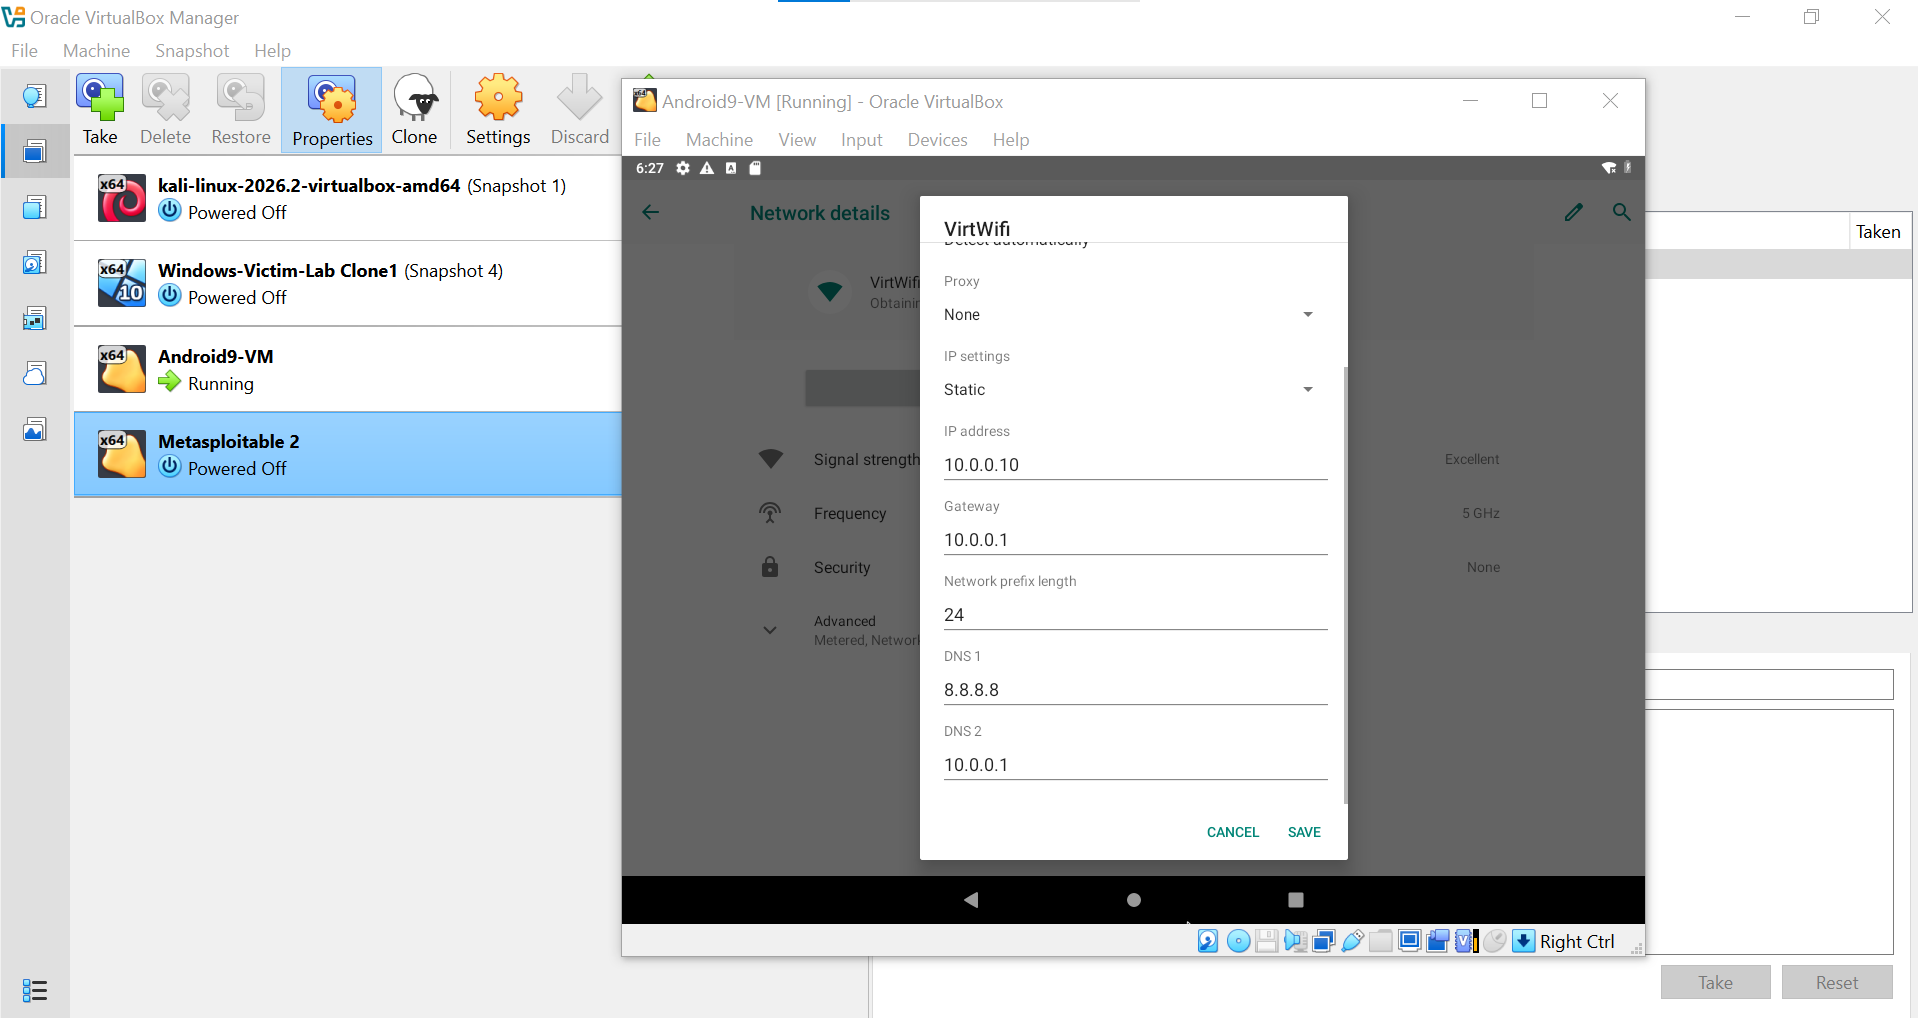
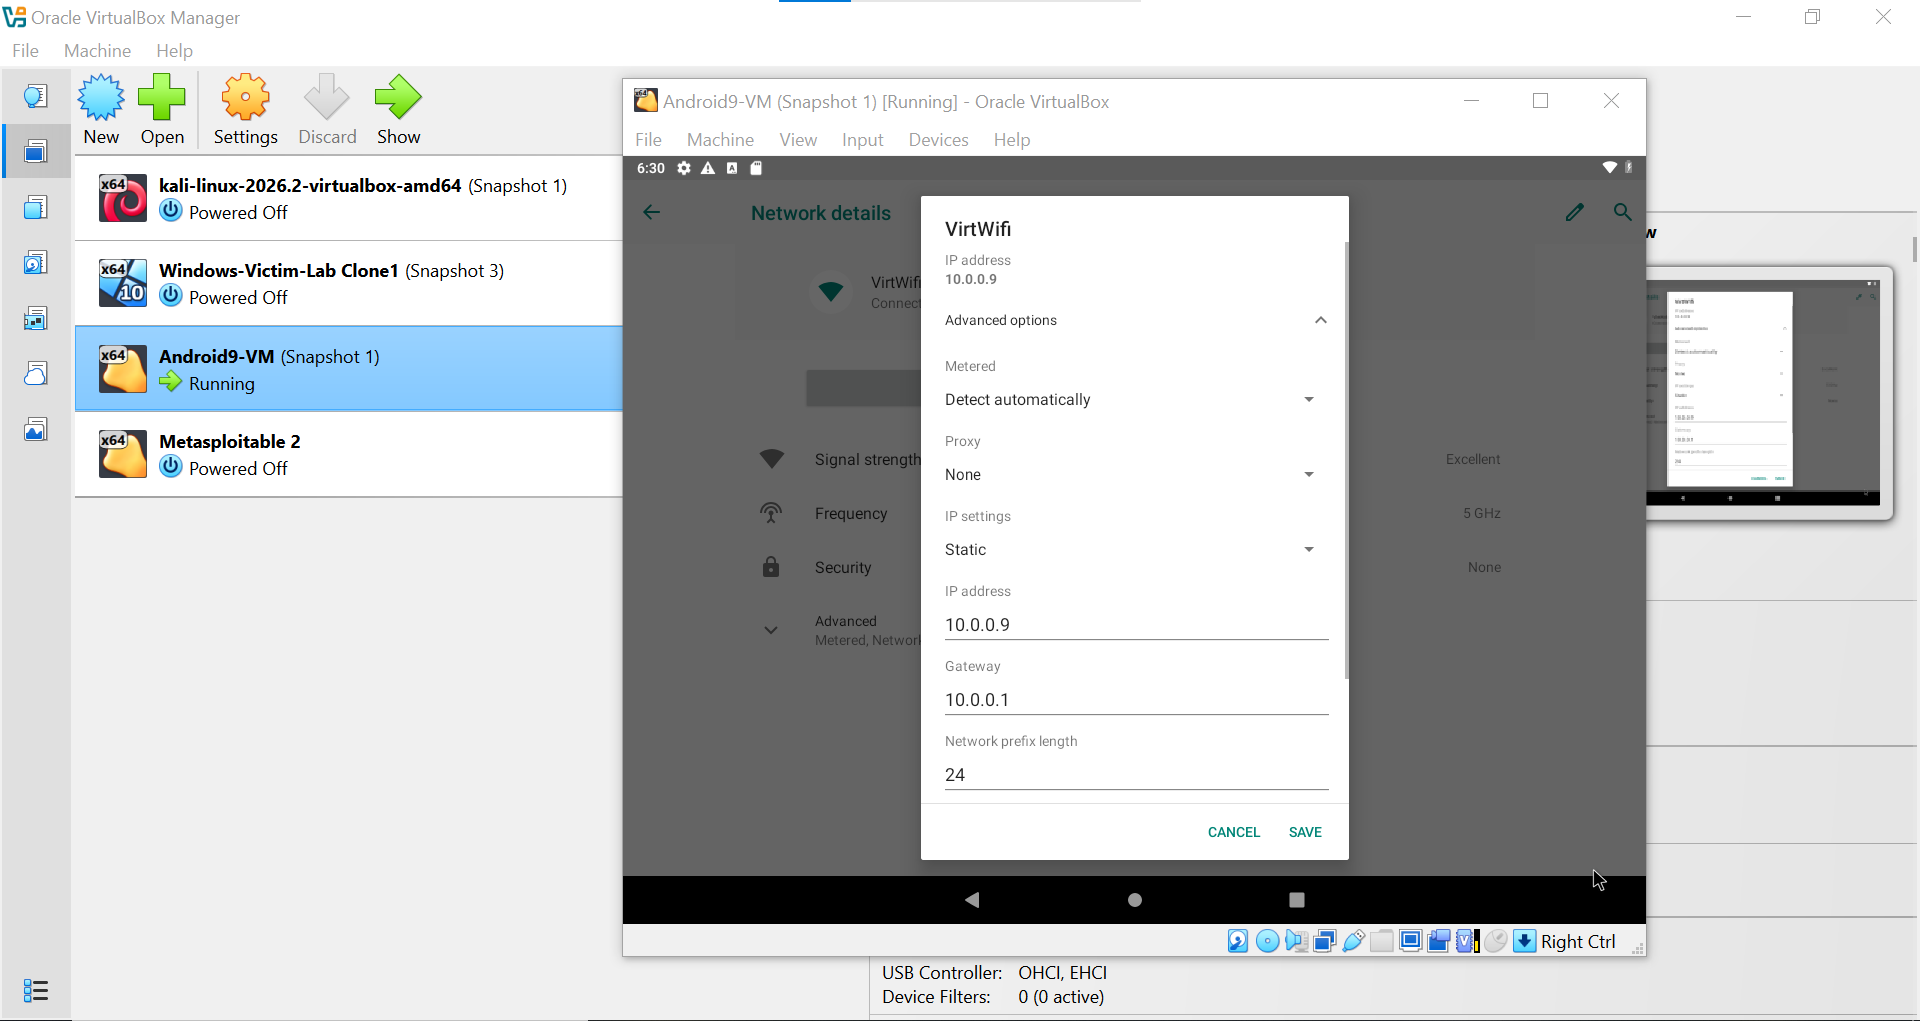
Added Phase 1 & 2 Reconnaissance and Network Scanning report (Batch B084)

diff --git a/reconnaissance-report/README.md b/reconnaissance-report/README.md
@@ -1,0 +1,142 @@
+# 🔍 Footprinting, Reconnaissance, and Network Scanning Report
+
+| Assessment Metadata | Details |
+| :--- | :--- |
+| **Reference No.** | `NW-LOA-B082-017` |
+| **Submission Date** | 13 November 2026 |
+| **Prepared By** | Siphiwe Toise |
+| **Program / Batch** | Batch B084 — Networkwalks Cybersecurity Internship |
+| **Client / Target Owner** | Networkwalks (Authorized by Sonia John, Managing Director) |
+
+---
+
+## 📑 Table of Contents
+*   **01.** Executive Summary & Scope Compliance
+*   **02.** Authorization & Rules of Engagement
+*   **03.** Lab & Attacker Environment Setup
+*   **04.** Phase 1: Passive & Light Reconnaissance (`networkwalks.com`)
+*   **05.** Phase 2: Local Subnet Host Discovery (`10.0.0.0/24`)
+*   **06.** Risk & Security Posture Assessment
+*   **07.** Evidence & Verification Screenshots
+*   **08.** Conclusion & Recommendations
+
+---
+
+## 01. Executive Summary & Scope Compliance
+This report documents the findings of a limited, non-destructive security assessment covering **Phase 1 (Footprinting and Reconnaissance)** and **Phase 2 (Network Scanning and Host Discovery)**. All testing activities were performed strictly within the written boundaries established by Networkwalks under Reference Number **NW-LOA-B082-017**.
+
+External enumeration of `networkwalks.com` revealed a well-hardened web front end protected by HTTPS redirection and a **ModSecurity Web Application Firewall (WAF)**. However, DNS queries disclosed exact name server software versions and an unsigned DNSSEC configuration. Internal network scanning of the isolated local subnet (`10.0.0.0/24`) successfully identified two active nodes with zero disruption to live services.
+
+---
+
+## 02. Authorization & Rules of Engagement
+In accordance with the **Letter of Authorization for Cybersecurity Testing** issued by Networkwalks, all activities adhered strictly to the approved scope and conditions:
+
+*   **Authorized Targets:** `networkwalks.com` (public website and associated DNS records) and the tester's own controlled Local Area Network (`10.0.0.0/24`).
+*   **Permitted Tools & Methods:** Passive and light information gathering (`whois`, `whatweb`, `nslookup`, `curl`, `wafw00f`, `dnsrecon`) alongside local subnet discovery via `Zenmap` / `Nmap`.
+*   **Prohibited Activities Respected:** Zero exploitation, brute-force attempts, privilege escalation, denial-of-service, or unauthorized data modification were performed. All discovered artifacts are maintained strictly confidential for internship evaluation.
+
+---
+
+## 03. Lab & Attacker Environment Setup
+Before initiating network sweeps, the local network interface (`eth0`) on the Kali Linux testing workstation was verified using `ifconfig` and `ip a` to confirm strict containment within the authorized private subnet.
+
+*   **Attacker Platform:** Kali Linux (`10.0.0.2/24`)
+*   **Hardware Interface (`eth0`):** State `UP`, MAC Address `08:00:27:5a:87:bc`, Broadcast `10.0.0.255`
+*   **DNS Resolver:** `8.8.8.8`
+
+---
+
+## 04. Phase 1: Passive & Light Reconnaissance (`networkwalks.com`)
+
+### 1. Domain Registration & Ownership (`whois`)
+Querying the global WHOIS registry confirmed the domain registration lifecycle and hosting infrastructure:
+*   **Domain Name:** `NETWORKWALKS.COM` (Registry ID: `2452319255_DOMAIN_COM-VRSN`)
+*   **Registrar:** GoDaddy.com, LLC (IANA ID: `146`)
+*   **Registration Dates:** Created `2019-11-06`, Updated `2025-11-12`, Expires `2027-11-06`
+*   **Domain Protection Locks:** `clientDeleteProhibited`, `clientRenewProhibited`, `clientTransferProhibited`, and `clientUpdateProhibited` are all active.
+*   **DNSSEC Status:** `unsigned`
+
+### 2. DNS Resolution & Record Enumeration (`nslookup` & `dnsrecon`)
+Executing `nslookup` and `dnsrecon -d networkwalks.com` mapped out the domain's name servers, mail routing, and service records:
+*   **Primary A Record:** `networkwalks.com` resolves to **`192.232.216.135`**.
+*   **Authoritative Name Servers:** 
+    *   `://hostgator.com` (`50.87.144.87`) — Disclosed **BIND Version `9.16.23-RH`**.
+    *   `://hostgator.com` (`192.232.216.131`) — Disclosed **BIND Version `9.16.23-RH`**.
+*   **Mail Exchanger (MX):** Mail routes through `://networkwalks.com` (`192.232.216.135`).
+*   **TXT & SPF Records:** Confirmed an active Sender Policy Framework record (`v=spf1 +a +mx +ip4:50.87.144.87 +include:websitewelcome.com ~all`) alongside a Google site verification string.
+*   **SRV Records:** Discovered 8 `_autodiscover._://networkwalks.com` records pointing to `cpanelemaildiscovery.cpanel.net` on port `443`.
+
+### 3. Web Stack & HTTP Header Analysis (`whatweb` & `curl -I`)
+Probing the web server headers identified the underlying technology stack and security controls:
+*   **HTTPS Enforcement:** Sending a request to `http://networkwalks.com` returns an **`HTTP/1.1 301 Moved Permanently`** redirect enforced by `WordPress - Really Simple Security`, automatically upgrading connections to `https://networkwalks.com`.
+*   **Server & CMS Fingerprint:** Hosted on **Apache** (United States), running **WordPress 7.1.4**, **Bootstrap 7.1.4**, **jQuery 3.7.1**, and **WordPress Download Manager 3.3.76**.
+*   **Security Headers & Cookies:** Enforces `Referrer-Policy: no-referrer-when-downgrade`, `Permissions-Policy`, and sets an **`HttpOnly`** session cookie (`__wpdm_client`) to mitigate cross-site scripting (XSS) cookie theft.
+*   **Public Email Disclosed:** `info@networkwalks.com`.
+
+### 4. Web Application Firewall Detection (`wafw00f`)
+Running `wafw00f networkwalks.com` sent 2 probe requests and confirmed that `https://networkwalks.com` is actively protected behind a **ModSecurity (SpiderLabs) WAF**.
+
+---
+
+## 05. Phase 2: Local Subnet Host Discovery (`10.0.0.0/24`)
+Using **Zenmap**, a quick host discovery and port scan (`nmap -T4 -F 10.0.0.0/24`) was executed across the authorized local network. The scan evaluated 256 IP addresses in **7.48 seconds** and identified **2 live hosts**:
+
+| Host IP Address | Role / Identification | Latency | Open Ports & Services |
+| :--- | :--- | :--- | :--- |
+| **`10.0.0.1`** | Local Virtual Gateway / Host Interface (`QEMU virtual NIC`) | `0.00058s` | `135/tcp` (`msrpc`), `445/tcp` (`microsoft-ds`), `5357/tcp` (`wsdapi`) |
+| **`10.0.0.2`** | Kali Linux Testing Node (`localhost`) | `0.00015s` | `443/tcp` (`https` — local Wazuh SIEM dashboard) |
+
+---
+
+## 06. Risk & Security Posture Assessment
+
+*   **Positive Security Controls Observed:**
+    *   **Active WAF Protection:** The presence of ModSecurity provides strong defense against automated web attacks like SQL injection and XSS.
+    *   **Strict Transport & Cookie Security:** Automatic 301 HTTPS redirection and `HttpOnly` cookie flags protect user sessions in transit.
+    *   **Domain Registrar Locks:** Transfer and deletion locks prevent unauthorized domain hijacking.
+*   **Informational / Low-Severity Findings:**
+    *   **DNS Version Disclosure:** Authoritative name servers broadcast their exact BIND version (`9.16.23-RH`), which could help an attacker search for version-specific DNS vulnerabilities.
+    *   **Unsigned DNSSEC:** `DNSSEC` is currently unsigned, leaving DNS queries theoretically susceptible to spoofing or cache poisoning if intercepted upstream.
+    *   **CMS & Plugin Versioning:** Public meta tags disclose exact versions for WordPress (`7.1.4`) and WordPress Download Manager (`3.3.76`).
+
+---
+
+## 07. Evidence & Verification Screenshots
+
+### Figure 1: Local Interface Verification
+![Figure 1](assets/figure-1.png)
+*Figure 1: `ip a` and `ifconfig` output confirming Kali Linux static interface `10.0.0.2/24`.*
+
+### Figure 2: WHOIS & NSLookup Resolution
+![Figure 2](assets/figure-2.png)
+*Figure 2: `whois` and `nslookup` outputs confirming domain ownership and IP resolution (`192.232.216.135`).*
+
+### Figure 3: DNS Record Enumeration
+![Figure 3](assets/figure-3.png)
+*Figure 3: `dnsrecon -d networkwalks.com` output showing NS, MX, TXT, and 8 SRV records.*
+
+### Figure 4: HTTP Headers & Web Stack Fingerprinting
+![Figure 4](assets/figure-4.png)
+*Figure 4: `curl -I` and `whatweb` terminal captures showing the 301 HTTPS redirect and WordPress stack.*
+
+### Figure 5: Web Application Firewall Detection
+![Figure 5](assets/figure-5.png)
+*Figure 5: `wafw00f` output confirming **ModSecurity (SpiderLabs)** WAF detection.*
+
+### Figure 6: Zenmap Host Discovery Output
+![Figure 6](assets/figure-6.png)
+*Figure 6: Zenmap Nmap Output displaying active hosts `10.0.0.1` and `10.0.0.2`.*
+
+### Figure 7: Zenmap Network Topology Map
+![Figure 7](assets/figure-7.png)
+*Figure 7: Topology map displaying active hosts `10.0.0.1` and `10.0.0.2`.*
+
+---
+
+## 08. Conclusion & Recommendations
+The reconnaissance and scanning engagement was completed safely with zero service disruption, adhering strictly to **NW-LOA-B082-017**. `networkwalks.com` demonstrates a solid baseline defensive posture through its WAF deployment, HTTPS enforcement, and registrar locks.
+
+To further harden the external footprint, the Client may consider:
+1.  Enabling **DNSSEC** signing at the domain registrar to cryptographically validate DNS responses.
+2.  Stripping WordPress generator meta tags to minimize public CMS and plugin version disclosure.
